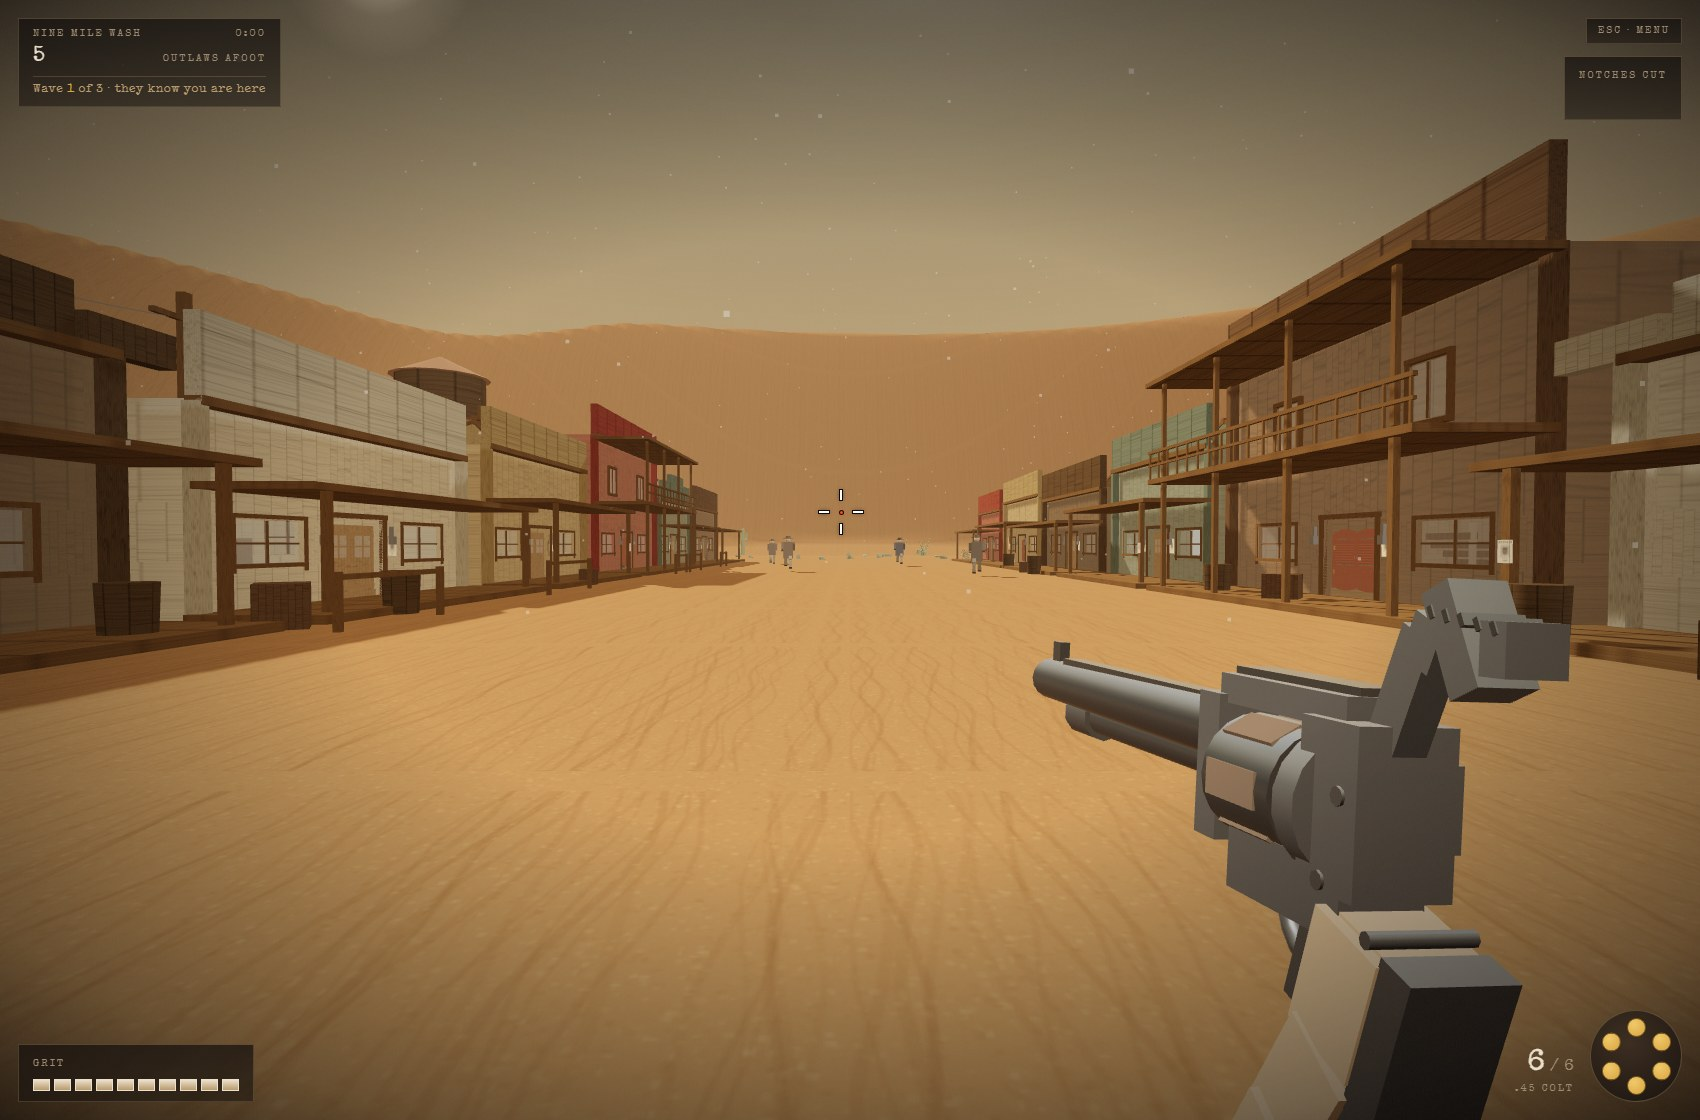
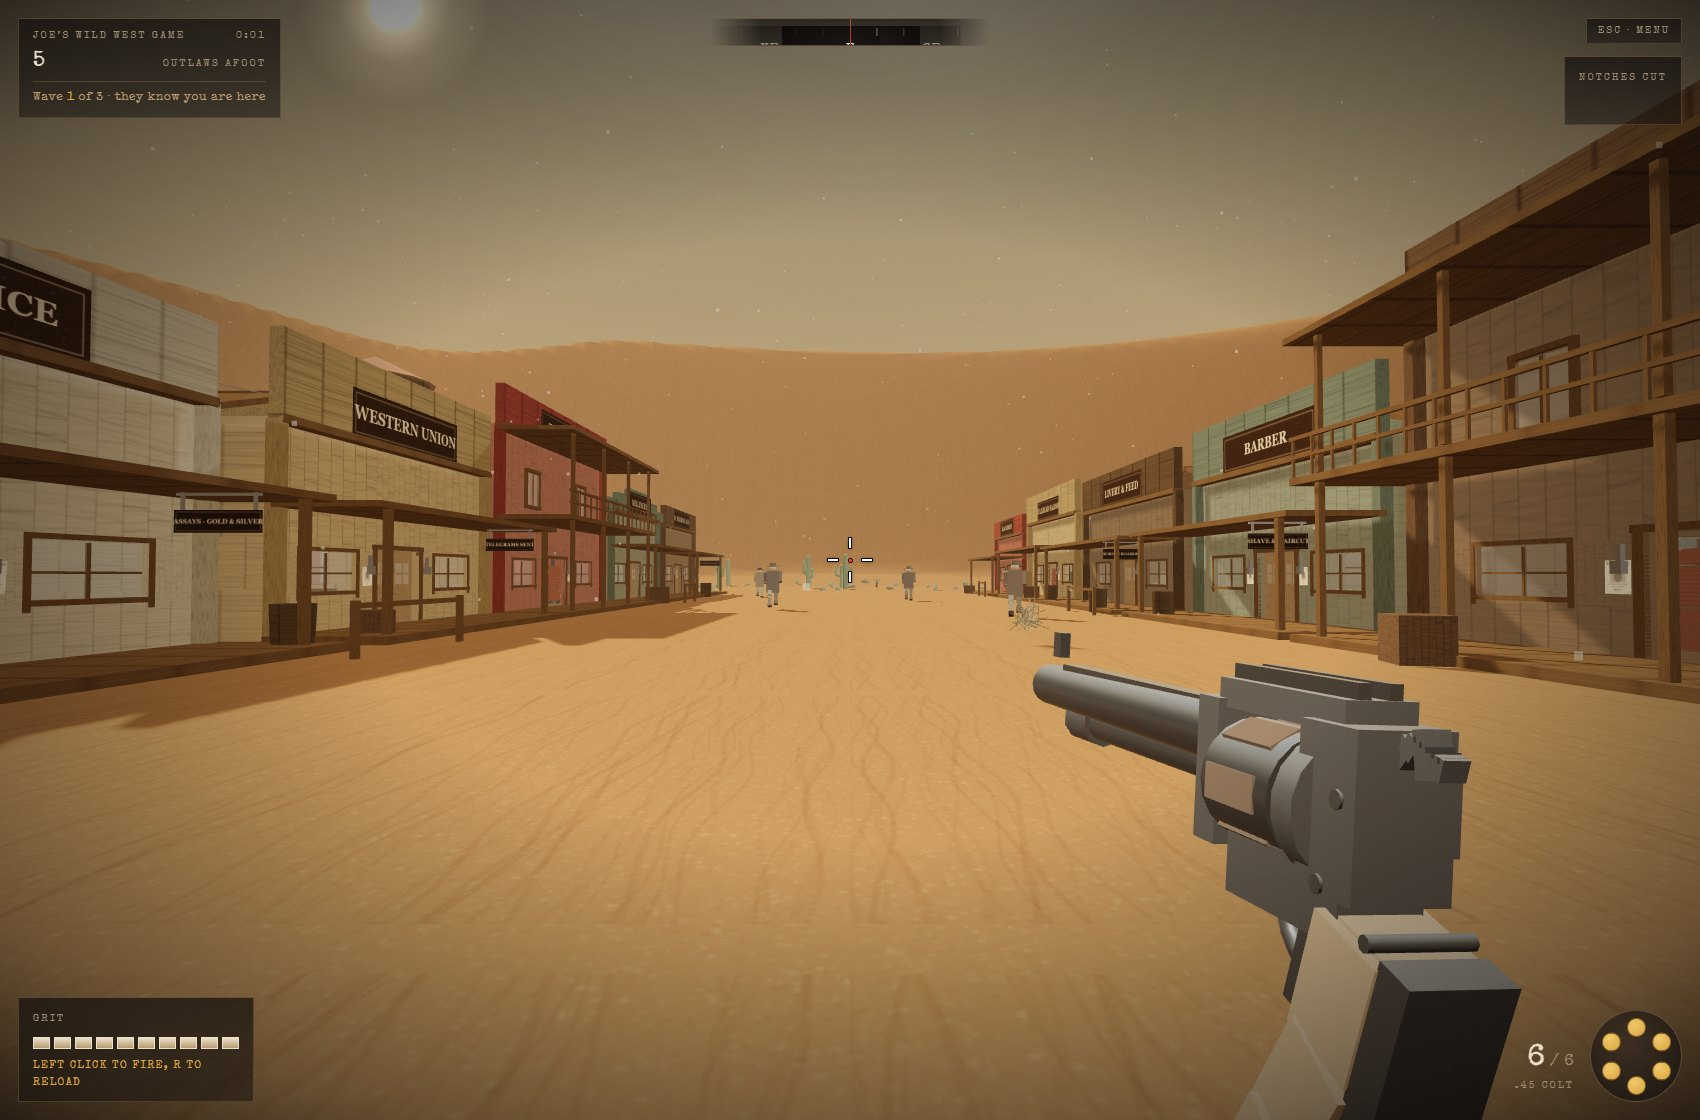
Refresh the Wild West card photo and hosted build
The card image was captured before the town had readable signs, the
hammer was cut down or the game was renamed - the HUD in it still said
Nine Mile Wash. Recaptured from the current build at the same size as
the other cards.

diff --git a/public/joes-wild-west-game/index.html b/public/joes-wild-west-game/index.html
@@ -170,64 +170,26 @@ h1{font-family:var(--display);font-size:clamp(36px,7vw,68px);line-height:.98;mar
 /* The bar fills by scaleX rather than width: a transform animates on the
    compositor, so it keeps gliding through the frames where the build has the
    main thread and a width transition would sit still. */
-/* The opening screen is the one that opens the portfolio, in its colours and
-   its typeface rather than the game's: flat #0d1116 under scanlines, the name
-   tracked out in monospace, a thin lit bar in the accent purple, LOADING and a
-   count either end of it, and PRESS START once the bar is full. No runner and
-   no obstacles - on the portfolio the bar runs to a timer and the sprite is
-   the honest part of that, but this one is counting a real build.
-   It is also the only screen before the game now. It used to hand over to a
-   second card once it finished, so on anything quick you never saw it. */
-#title{background:#0d1116;transition:opacity .45s ease, transform .45s ease}
-#title.fade{opacity:0;transform:scale(1.04);pointer-events:none}
-#title::after{content:"";position:absolute;inset:0;pointer-events:none;
-  background:repeating-linear-gradient(to bottom,
-    rgba(255,255,255,.035) 0px, rgba(255,255,255,.035) 1px, transparent 1px, transparent 3px)}
-.ls-inner{position:relative;z-index:1;width:min(680px,90vw);text-align:center;
-  font-family:'Courier Prime',source-code-pro,Menlo,Monaco,Consolas,'Courier New',monospace}
-.ls-eyebrow{margin:0 0 14px;font-size:.62rem;letter-spacing:.34em;color:rgba(255,255,255,.32);
-  animation:bootIn 600ms cubic-bezier(.16,1,.3,1) both}
-#title h1.ls-name{margin:0;font-family:inherit;white-space:nowrap;color:#fff;
-  font-size:clamp(.6rem,3.6vw,1.75rem);letter-spacing:.16em;line-height:1.3;
-  text-shadow:0 0 18px rgba(123,63,228,.55);
-  animation:bootIn 600ms cubic-bezier(.16,1,.3,1) both}
-.ls-track{position:relative;height:14px;margin:44px 0 0;border:2px solid rgba(255,255,255,.25);
-  background:rgba(255,255,255,.04);
-  animation:bootIn 600ms cubic-bezier(.16,1,.3,1) 240ms both}
-/* scaleX rides the compositor, so it keeps gliding through the frames where
-   the build owns the main thread and an animated width would sit still. */
-.ls-fill{display:block;height:100%;transform:scaleX(0);transform-origin:0 50%;
-  background:linear-gradient(90deg,#5000ca,#7b3fe4);box-shadow:0 0 14px rgba(123,63,228,.7);
+/* The card is up from the first paint and the bar loads in the slot the button
+   will take, so the one control on the screen is either the progress or the way
+   in - never a button that looks ready and does nothing. The slot is held to
+   one height so swapping one for the other does not shift the card. */
+#startSlot{min-height:78px;margin-top:20px;display:flex;flex-direction:column;
+  align-items:center;justify-content:center}
+#loadRow{width:min(420px,80%)}
+#bar{height:13px;border:2px solid #1E1611;background:rgba(30,22,17,.10)}
+/* scaleX rides the compositor, so it keeps gliding through the frames where the
+   build owns the main thread and an animated width would sit still. */
+#bar i{display:block;height:100%;background:#1E1611;transform:scaleX(0);transform-origin:0 50%;
   transition:transform .55s cubic-bezier(.32,0,.16,1);
   animation:crawl 9s cubic-bezier(.15,.85,.3,1) forwards}
+/* Until the renderer is down off the wire there is nothing real to report, so
+   the bar creeps. The script kills the animation the moment it has a number. */
 @keyframes crawl{from{transform:scaleX(0)}to{transform:scaleX(.10)}}
-.ls-status{display:flex;justify-content:space-between;margin:14px 0 0;
-  font-size:clamp(.7rem,2.4vw,.85rem);letter-spacing:.2em;color:rgba(255,255,255,.6);
-  animation:bootIn 600ms cubic-bezier(.16,1,.3,1) 300ms both}
-#loadPct{color:#7b3fe4;font-variant-numeric:tabular-nums}
-/* the row is held open so nothing jumps when the button arrives */
-.ls-action{min-height:92px;margin-top:40px;visibility:hidden}
-.ls-action.on{visibility:visible}
-.ls-start{display:inline-block;padding:12px 26px;font-family:inherit;
-  font-size:clamp(.85rem,3vw,1.05rem);letter-spacing:.28em;color:#fff;background:transparent;
-  border:2px solid rgba(255,255,255,.5);cursor:pointer;pointer-events:auto;
-  animation:bootIn 400ms cubic-bezier(.16,1,.3,1) both, blink 900ms steps(1,end) 150ms infinite;
-  transition:background-color 200ms ease,border-color 200ms ease,color 200ms ease}
-.ls-start:hover,.ls-start:focus-visible{background:#5000ca;border-color:#7b3fe4;color:#fff;outline:none}
-.ls-start:focus-visible{box-shadow:0 0 0 3px rgba(123,63,228,.5)}
-.ls-hint{margin:12px 0 0;font-size:.7rem;letter-spacing:.14em;color:rgba(255,255,255,.3)}
-.ls-blurb{margin:26px auto 0;max-width:56ch;font-size:.72rem;line-height:1.8;
-  letter-spacing:.06em;color:rgba(255,255,255,.42)}
-.ls-keys{display:grid;grid-template-columns:repeat(auto-fit,minmax(168px,1fr));gap:6px 22px;
-  margin:20px 0 0;text-align:left}
-.ls-keys div{display:flex;justify-content:space-between;gap:10px;font-size:.64rem;
-  letter-spacing:.08em;color:rgba(255,255,255,.34);
-  border-bottom:1px solid rgba(255,255,255,.07);padding-bottom:4px}
-.ls-keys b{font-weight:400;color:rgba(255,255,255,.62)}
-@keyframes bootIn{from{opacity:0;transform:translateY(14px)}to{opacity:1;transform:none}}
-@keyframes blink{0%,54%{opacity:1}55%,100%{opacity:.15}}
-@media (prefers-reduced-motion:reduce){#title,#title *{transition:none;animation:none}
-  .ls-fill{transition:none;animation:none}}
+#loadRow p{display:flex;justify-content:space-between;margin:8px 0 0;
+  font-size:11px;letter-spacing:.22em;text-transform:uppercase;opacity:.66}
+#start[hidden],#loadRow[hidden]{display:none}
+@media (prefers-reduced-motion:reduce){#bar i{transition:none;animation:none}}
 @media (prefers-reduced-motion:reduce){#grain{animation:none}}
 @media (max-width:680px){#compass,#feed{display:none}#cyl{width:70px;height:70px}#cyl u{width:14px;height:14px;margin:-7px}}
 </style>
@@ -262,25 +224,27 @@ h1{font-family:var(--display);font-size:clamp(36px,7vw,68px);line-height:.98;mar
   </div>
 
   <div class="card" id="title">
-    <div class="ls-inner">
-      <p class="ls-eyebrow">CIMARRON COUNTY &middot; NO MAN&rsquo;S LAND &middot; APRIL 1889</p>
-      <h1 class="ls-name">JOE&rsquo;S WILD WEST GAME</h1>
-      <div class="ls-track"><i class="ls-fill" id="barFill"></i></div>
-      <p class="ls-status"><span id="loadTxt">LOADING</span><span id="loadPct">0%</span></p>
-      <div class="ls-action" id="loadAction">
-        <button class="ls-start" id="start" type="button">&#9656; PRESS START &#9666;</button>
-        <p class="ls-hint">click anywhere or press any key</p>
+    <div class="sheet">
+      <div class="eyebrow">Cimarron County &middot; No Man&rsquo;s Land &middot; April 1889</div>
+      <h1>Joe&rsquo;s Wild West Game</h1>
+      <div class="rule dbl"></div>
+      <p class="sub">No sheriff between here and Texas. Thirteen of the Prine outfit, three saloons, and one man with a Springfield on the Occidental roof.</p>
+      <div class="keys">
+        <div><span>Mouse</span><span>look and aim</span></div>
+        <div><span>W A S D</span><span>move, Shift to run</span></div>
+        <div><span>Left click</span><span>fire</span></div>
+        <div><span>Right hold</span><span>aim down the sights</span></div>
+        <div><span>R</span><span>reload</span></div>
+        <div><span>F</span><span>ride the wagon / get down</span></div>
+        <div><span>1 / 2, wheel</span><span>Colt / Springfield rifle</span></div>
+        <div><span>Esc</span><span>pause, and the rest of the keys</span></div>
       </div>
-      <p class="ls-blurb">No sheriff between here and Texas. Thirteen of the Prine outfit, three saloons, and one man with a Springfield on the Occidental roof.</p>
-      <div class="ls-keys">
-        <div><b>Mouse</b><span>look and aim</span></div>
-        <div><b>W A S D</b><span>move, Shift to run</span></div>
-        <div><b>Left click</b><span>fire</span></div>
-        <div><b>Right hold</b><span>aim down the sights</span></div>
-        <div><b>R</b><span>reload</span></div>
-        <div><b>F</b><span>ride the wagon</span></div>
-        <div><b>1 / 2, wheel</b><span>Colt / Springfield</span></div>
-        <div><b>Esc</b><span>pause, and the rest</span></div>
+      <div id="startSlot">
+        <div id="loadRow">
+          <div id="bar"><i id="barFill"></i></div>
+          <p><span id="loadTxt">Building the town</span><span id="loadPct">0%</span></p>
+        </div>
+        <button class="go" id="start" type="button" hidden>Step into the street</button>
       </div>
     </div>
   </div>
@@ -2936,7 +2900,6 @@ function toTitle(){
   P.fireHeld=false; dragging=false;
   ui.feed.innerHTML=''; ui.state.textContent=''; stateMsgT=0; lastStateTxt=null;
   titleT=0;
-  armStart();                                    // and any key will do again
   setTimeout(function(){ try{ $('start').focus(); }catch(err){} },60);
 }
 
@@ -3871,13 +3834,13 @@ $('showKeys').addEventListener('click',function(){
    one under way. Nothing is clickable until the last of them is done. */
 function runBuild(){
   if(!BUILD.length){
-    setLoad('READY',1);
+    setLoad('Ready',1);
     requestAnimationFrame(frame);
     setTimeout(ready,420);
     return;
   }
   var s=BUILD[0];
-  setLoad('LOADING',0.12+0.88*(BUILT/BUILD_W));
+  setLoad(s.label,0.12+0.88*(BUILT/BUILD_W));
   requestAnimationFrame(function(){
     BUILD.shift(); s.fn(); BUILT+=s.w;
     runBuild();
@@ -3887,28 +3850,17 @@ function runBuild(){
 /* Nothing gets you past this screen until the bar is full - same as the
    portfolio, where the sequence cannot be skipped. Then the button turns up
    and a click or a key anywhere will do, so you are not hunting for it. */
-var armed=false;
-function armStart(){
-  if(armed)return;
-  armed=true;
-  var go=function(ev){
-    if(GAME.state!=='title')return;
-    if(ev&&ev.type==='keydown'&&(ev.code==='Escape'||ev.code==='Tab'))return;
-    window.removeEventListener('keydown',go); window.removeEventListener('mousedown',go);
-    armed=false;
-    beginRun();
-  };
-  window.addEventListener('keydown',go); window.addEventListener('mousedown',go);
-}
+/* The bar hands its place over to the button, so the card never offers a way
+   in before there is one. */
 function ready(){
-  $('loadAction').classList.add('on');
+  $('loadRow').hidden=true;
+  $('start').hidden=false;
   try{ $('start').focus(); }catch(e){}
-  armStart();
 }
 runBuild();
 }
 
-setLoad('LOADING',0.12);
+setLoad('Mixing the paint',0.12);
 requestAnimationFrame(function(){ requestAnimationFrame(boot); });
 })();
 </script>
